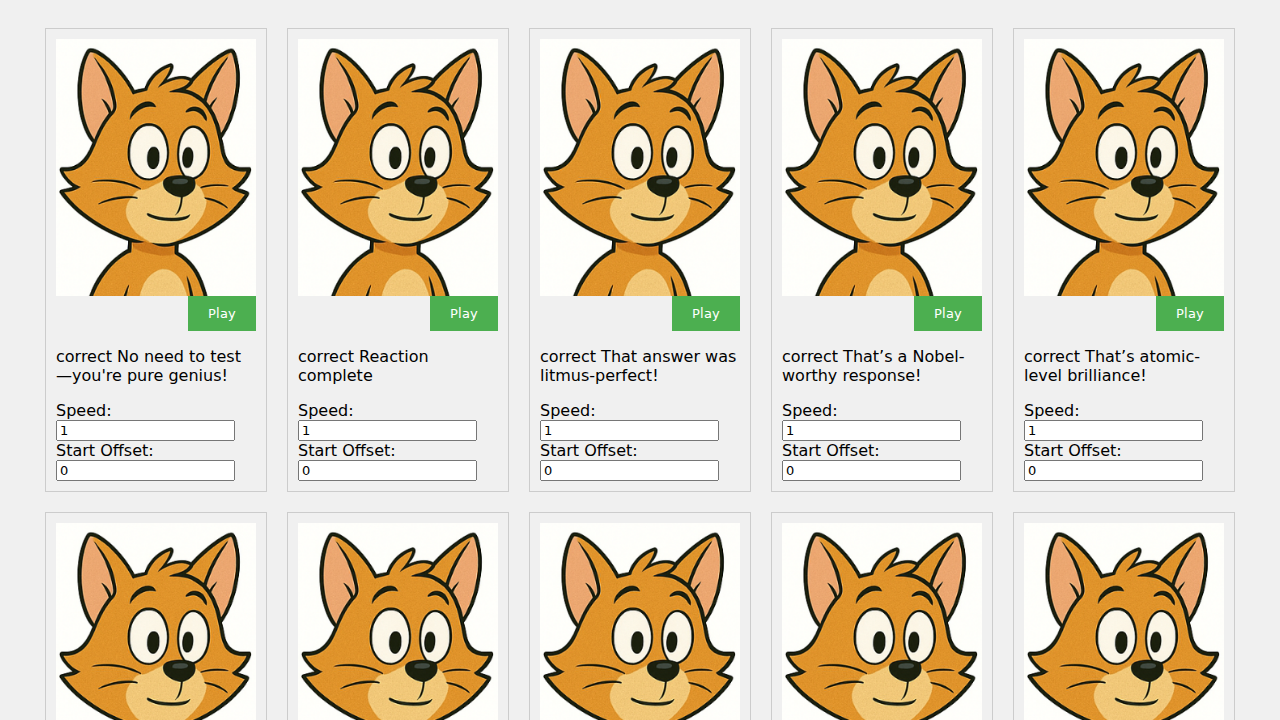
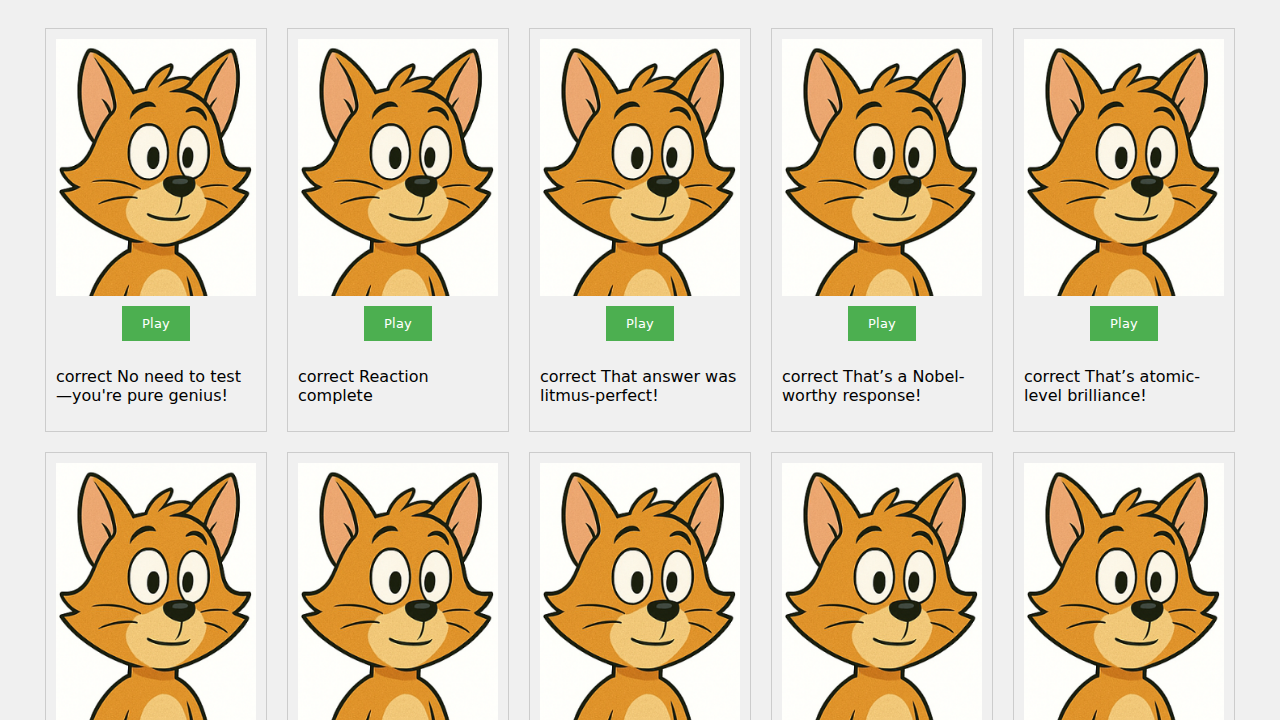
refactor: Move all controls to a global panel
Removes all keyboard hotkeys and per-video inputs for speed and offset.

Creates a single, centered control panel at the bottom of the page with the following global controls:
- Top Offset (pixels)
- Left Offset (pixels)
- Percentage original size
- Speed
- Start Offset

Also improves the styling and centering of the "Play" buttons.

Changed region(s): [[0.0312, 0.3972, 0.9688, 1.0]]

diff --git a/script.js b/script.js
@@ -21,6 +21,11 @@ const mp3s = [
 ];
 
 const videosContainer = document.getElementById('videos-container');
+const topOffsetInput = document.getElementById('top-offset');
+const leftOffsetInput = document.getElementById('left-offset');
+const percentageSizeInput = document.getElementById('percentage-size');
+const speedInput = document.getElementById('speed');
+const startOffsetInput = document.getElementById('start-offset');
 
 const visemeMap = {
     'a': 'a-OOO-u.png',
@@ -30,6 +35,19 @@ const visemeMap = {
     'i': 'EEE-III.png',
     'l': 'L.png'
 };
+
+function updateVisemeStyles() {
+    const top = topOffsetInput.value + 'px';
+    const left = leftOffsetInput.value + 'px';
+    const scale = percentageSizeInput.value / 100;
+
+    const visemes = document.querySelectorAll('.viseme');
+    visemes.forEach(viseme => {
+        viseme.style.top = top;
+        viseme.style.left = left;
+        viseme.style.transform = `scale(${scale})`;
+    });
+}
 
 mp3s.forEach(mp3 => {
     const video = document.createElement('div');
@@ -56,30 +74,9 @@ mp3s.forEach(mp3 => {
     sentenceEl.textContent = sentence;
     video.appendChild(sentenceEl);
 
-    const controlsContainer = document.createElement('div');
-    controlsContainer.classList.add('controls');
-
-    const speedLabel = document.createElement('label');
-    speedLabel.textContent = 'Speed:';
-    const speedInput = document.createElement('input');
-    speedInput.type = 'number';
-    speedInput.value = 1;
-    controlsContainer.appendChild(speedLabel);
-    controlsContainer.appendChild(speedInput);
-
-    const offsetLabel = document.createElement('label');
-    offsetLabel.textContent = 'Start Offset:';
-    const offsetInput = document.createElement('input');
-    offsetInput.type = 'number';
-    offsetInput.value = 0;
-    controlsContainer.appendChild(offsetLabel);
-    controlsContainer.appendChild(offsetInput);
-
-    video.appendChild(controlsContainer);
-
     playButton.addEventListener('click', () => {
         const speed = parseFloat(speedInput.value) || 1;
-        const startOffset = parseInt(offsetInput.value) || 0;
+        const startOffset = parseInt(startOffsetInput.value) || 0;
 
         audio.play();
 
@@ -90,10 +87,6 @@ mp3s.forEach(mp3 => {
 
     videosContainer.appendChild(video);
 });
-
-let visemeX = 0;
-let visemeY = 0;
-let visemeScale = 1;
 
 function animateVisemes(sentence, visemeImg, speed) {
     let i = 0;
@@ -119,30 +112,9 @@ function animateVisemes(sentence, visemeImg, speed) {
     showNextViseme();
 }
 
-document.addEventListener('keydown', (e) => {
-    switch (e.key) {
-        case 'ArrowUp':
-            visemeY -= 5;
-            break;
-        case 'ArrowDown':
-            visemeY += 5;
-            break;
-        case 'ArrowLeft':
-            visemeX -= 5;
-            break;
-        case 'ArrowRight':
-            visemeX += 5;
-            break;
-        case 'q':
-            visemeScale += 0.1;
-            break;
-        case 'a':
-            visemeScale = Math.max(0.1, visemeScale - 0.1);
-            break;
-    }
+topOffsetInput.addEventListener('input', updateVisemeStyles);
+leftOffsetInput.addEventListener('input', updateVisemeStyles);
+percentageSizeInput.addEventListener('input', updateVisemeStyles);
 
-    const visemes = document.querySelectorAll('.viseme');
-    visemes.forEach(viseme => {
-        viseme.style.transform = `translate(${visemeX}px, ${visemeY}px) scale(${visemeScale})`;
-    });
-});
+// Initial application of styles
+updateVisemeStyles();

diff --git a/index.html b/index.html
@@ -8,6 +8,30 @@
 </head>
 <body>
     <div id="videos-container"></div>
+
+    <div id="global-controls">
+        <div>
+            <label for="top-offset">Top Offset (pixels):</label>
+            <input type="number" id="top-offset" value="50">
+        </div>
+        <div>
+            <label for="left-offset">Left Offset (pixels):</label>
+            <input type="number" id="left-offset" value="20">
+        </div>
+        <div>
+            <label for="percentage-size">Percentage original side:</label>
+            <input type="number" id="percentage-size" value="100">
+        </div>
+        <div>
+            <label for="speed">Speed:</label>
+            <input type="number" id="speed" value="1">
+        </div>
+        <div>
+            <label for="start-offset">Start Offset:</label>
+            <input type="number" id="start-offset" value="0">
+        </div>
+    </div>
+
     <script src="script.js"></script>
 </body>
 </html>

diff --git a/style.css b/style.css
@@ -37,10 +37,7 @@ body {
 }
 
 .play-button {
-    position: relative;
-    bottom: auto;
-    left: 50%;
-    transform: translateX(-50%);
+    margin: 10px 0;
     padding: 10px 20px;
     background-color: #4CAF50;
     color: white;
@@ -48,6 +45,16 @@ body {
     cursor: pointer;
 }
 
-#controls {
+#global-controls {
+    display: flex;
+    flex-direction: column;
+    align-items: center;
     margin-top: 20px;
+    padding: 20px;
+    border: 1px solid #ccc;
+    background-color: #fff;
+}
+
+#global-controls div {
+    margin-bottom: 10px;
 }
